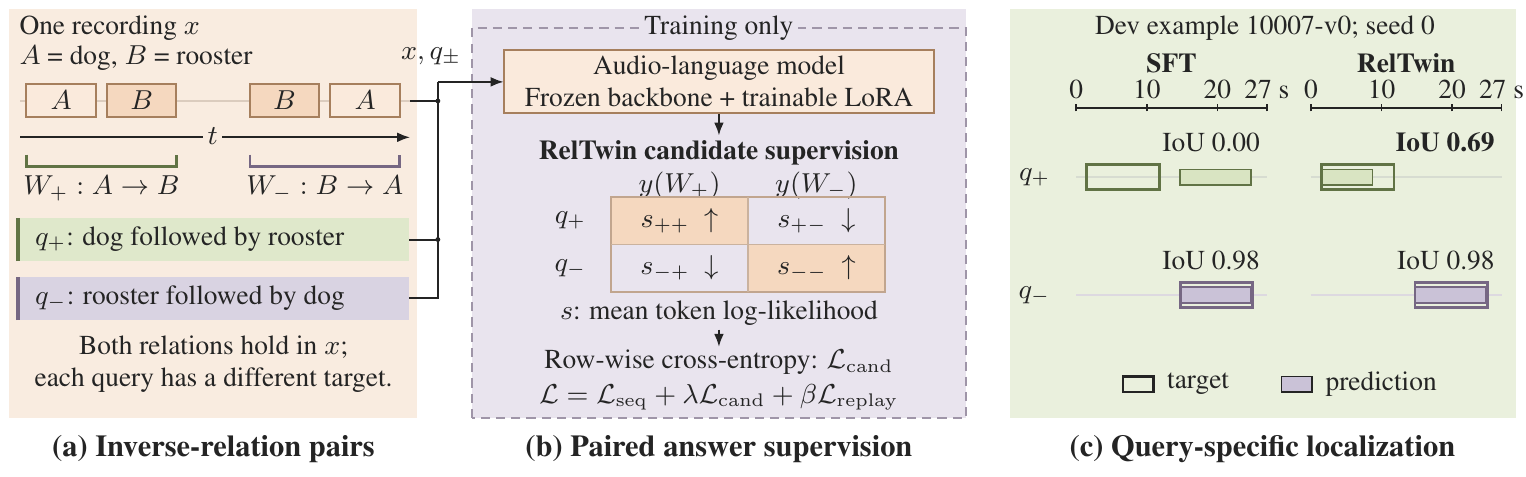
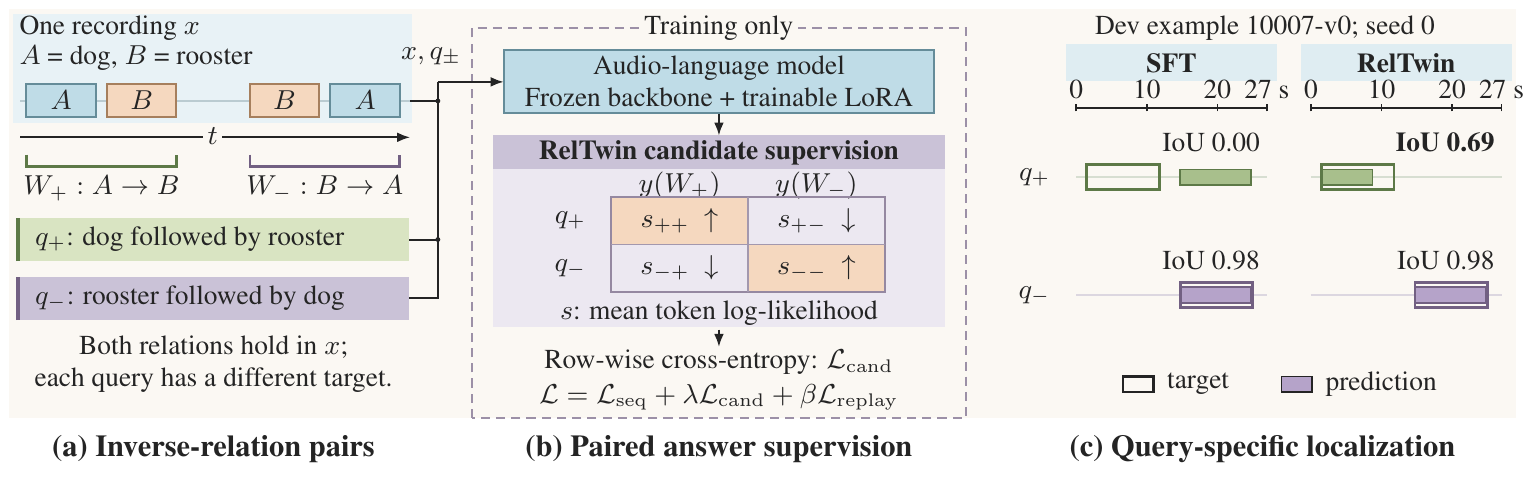
paper: separate figure foreground with functional color regions

diff --git a/figures/overview_art.tex b/figures/overview_art.tex
@@ -9,13 +9,15 @@
 % Synthesized contract: 9 pt Times body, 10 pt panel labels, 0.65 pt lines,
 % sharp rectangles, 0.3--0.5 cm functional gaps, no gradients/shadows/icons.
 % Current palette: annotated swatches in the user-supplied SplineGS reference
-% image (2026-09-14): D9E4C2 sage, CAC2D7 lavender, DDD6E5 pale lavender,
-% F5D8BF apricot, F9ECE0 pale apricot. Style reference only.
-% Sage/lavender identify the two queries and their windows; apricot marks
-% excerpts and model/supervision blocks. All text and math use rtInk.
-% Pale apricot/lavender/sage backgrounds group input/training/comparison.
-% Both models in (c) share one background; outline vs fill encodes target vs
-% prediction independently of color. Deeper companion hues are for strokes.
+% image (2026-09-14): BFDCE7/DFEDF2 cyan, CAC2D7/DDD6E5 lavender,
+% D9E4C2 sage, F5D8BF/F9ECE0 apricot. Style reference only.
+% Warm near-neutral canvas supports local functional regions instead of three
+% full-height color slabs. Cyan identifies audio/model context, lavender groups
+% candidate supervision, and apricot highlights the correct candidate cells.
+% Sage/lavender link query strips to windows; deeper companion window fills
+% remain distinct from the canvas. All text and math use rtInk.
+% Both models in (c) share the same header style and canvas; outline vs fill
+% encodes target vs prediction independently of color.
 % Four excerpt blocks = A,B,B,A; four cells = query/answer likelihoods;
 % solid arrows = data flow; dashed enclosure = training-only computation.
 % Panel (a) is schematic; panel (c) uses unchanged measured interval macros.
@@ -23,47 +25,58 @@
 \definecolor{rtPlusFill}{HTML}{D9E4C2}
 \definecolor{rtMinusFill}{HTML}{CAC2D7}
 \definecolor{rtAccentFill}{HTML}{F5D8BF}
-\definecolor{rtPlus}{HTML}{617345}
-\definecolor{rtMinus}{HTML}{766783}
+\definecolor{rtPlus}{HTML}{5D7947}
+\definecolor{rtMinus}{HTML}{726082}
 \definecolor{rtAccent}{HTML}{A67F5D}
+\definecolor{rtCyanFill}{HTML}{BFDCE7}
+\definecolor{rtCyanBg}{HTML}{DFEDF2}
+\definecolor{rtCyan}{HTML}{658C99}
+\definecolor{rtPlusBar}{HTML}{A8BF8C}
+\definecolor{rtMinusBar}{HTML}{B5A3C9}
 \definecolor{rtInk}{HTML}{242424}
-\definecolor{rtInputBg}{HTML}{F9ECE0}
 \definecolor{rtLavenderBg}{HTML}{DDD6E5}
-\colorlet{rtTrainBg}{rtLavenderBg!65}
-\colorlet{rtCompareBg}{rtPlusFill!55}
+\definecolor{rtCanvasBg}{HTML}{FBF8F3}
+\colorlet{rtSupervisionBg}{rtLavenderBg!55}
 \begin{tikzpicture}[x=1cm,y=1cm,
  every node/.style={font=\fontsize{9}{10.4}\selectfont,text=rtInk,inner sep=1.5pt},
  flow/.style={-{Latex[length=1.5mm]},line width=.65pt,draw=rtInk},
  title/.style={font=\fontsize{10}{11.4}\selectfont\bfseries},
  note/.style={font=\fontsize{9}{10.4}\selectfont,text=rtInk},
- module/.style={draw=rtAccent,fill=rtAccentFill!55,line width=.65pt}]
+ module/.style={draw=rtCyan,fill=rtCyanFill,line width=.65pt}]
 \path[use as bounding box] (0,.93) rectangle (17.4,6.22);
-% Shared-height, borderless stage backgrounds; labels remain below the panels.
-\path[fill=rtInputBg] (0,1.50) rectangle (4.71,6.22);
-\path[fill=rtTrainBg] (5.34,1.50) rectangle (11.05,6.22);
-\path[fill=rtCompareBg] (11.55,1.50) rectangle (17.4,6.22);
+% Color areas follow data/model/competition roles, rather than filling A/B/C.
+\path[fill=rtCanvasBg] (0,1.50) rectangle (17.4,6.22);
+\path[fill=rtCyanBg!72] (.04,4.90) rectangle (4.65,6.16);
+\path[fill=rtSupervisionBg] (5.59,2.55) rectangle (10.80,4.77);
+\path[fill=rtMinusFill] (5.59,4.37) rectangle (10.80,4.77);
+% Matched model headers organize (c) without tinting its entire plotting area.
+\foreach \xlo/\xhi in {12.20/14.64,14.91/17.35}{
+ \path[fill=rtCyanBg] (\xlo,5.39) rectangle (\xhi,5.82);
+}
 
-% (a) One recording contains both local ordered pairs. Apricot tints identify
-% reused excerpts; sage/lavender identifies each query and its answer window.
+% (a) Repeated A/B excerpts use consistent cyan/apricot fills. Sage/lavender
+% identifies each inverse query and its answer window.
 \node[anchor=west] at (.06,6.00) {One recording $x$};
 \node[note,anchor=west] at (.06,5.65) {$A$ = dog, $B$ = rooster};
-\draw[rtAccent!40,line width=.6pt] (.13,5.16)--(4.63,5.16);
-\foreach \xa/\xb/\event/\eventtint in {.2/1.0/A/55,1.13/1.93/B/100,2.78/3.58/B/100,3.71/4.51/A/55}{
- \draw[draw=rtAccent,fill=rtAccentFill!\eventtint,line width=.65pt] (\xa,4.98) rectangle (\xb,5.36);
+\draw[rtCyan!45,line width=.6pt] (.13,5.16)--(4.63,5.16);
+\foreach \xa/\xb/\event/\eventfill/\eventstroke in {
+ .2/1.0/A/rtCyanFill/rtCyan,1.13/1.93/B/rtAccentFill/rtAccent,
+ 2.78/3.58/B/rtAccentFill/rtAccent,3.71/4.51/A/rtCyanFill/rtCyan}{
+ \draw[draw=\eventstroke,fill=\eventfill,line width=.65pt] (\xa,4.98) rectangle (\xb,5.36);
  \node at ({(\xa+\xb)/2},5.17) {$\event$};
 }
 \draw[flow] (.13,4.74)--(4.63,4.74);
-\node[note,fill=rtInputBg] at (2.35,4.75) {$t$};
+\node[note,fill=rtCanvasBg] at (2.35,4.75) {$t$};
 \draw[rtPlus,line width=.9pt] (.2,4.54)--(.2,4.40)--(1.93,4.40)--(1.93,4.54);
 \draw[rtMinus,line width=.9pt] (2.78,4.54)--(2.78,4.40)--(4.51,4.40)--(4.51,4.54);
 \node at (1.065,4.15) {$W_+: A\rightarrow B$};
 \node at (3.645,4.15) {$W_-: B\rightarrow A$};
 
 % Query strips are data, not model blocks. Colored rules identify the pair.
-\path[fill=rtPlusFill!85] (.10,3.31) rectangle (4.62,3.81);
+\path[fill=rtPlusFill] (.10,3.31) rectangle (4.62,3.81);
 \draw[rtPlus,line width=1.3pt] (.10,3.31)--(.10,3.81);
 \node[anchor=west] at (.24,3.56) {$q_+$: dog followed by rooster};
-\path[fill=rtMinusFill!72] (.10,2.63) rectangle (4.62,3.13);
+\path[fill=rtMinusFill] (.10,2.63) rectangle (4.62,3.13);
 \draw[rtMinus,line width=1.3pt] (.10,2.63)--(.10,3.13);
 \node[anchor=west] at (.24,2.88) {$q_-$: rooster followed by dog};
 \node[align=center] at (2.36,2.12) {Both relations hold in $x$;\\each query has a different target.};
@@ -72,7 +85,7 @@
 % Each of the four cells is one timestamp-answer mean log-likelihood.
 \draw[draw=rtMinus!70,dash pattern=on 3pt off 2pt,line width=.75pt]
  (5.34,1.50) rectangle (11.05,6.00);
-\node[fill=rtTrainBg] at (8.195,6.00) {Training only};
+\node[fill=rtCanvasBg] at (8.195,6.00) {Training only};
 \draw[module] (5.71,5.02) rectangle (10.68,5.75);
 \node[align=center] at (8.195,5.385) {Audio-language model\\Frozen backbone + trainable LoRA};
 % Explicit fan-in: recording and both query strips enter the same model.
@@ -91,9 +104,9 @@
 \node at (6.48,3.23) {$q_-$};
 \path[fill=rtAccentFill] (6.95,3.505) rectangle (8.53,4.055);
 \path[fill=rtAccentFill] (8.53,2.955) rectangle (10.11,3.505);
-\draw[rtAccent!70,line width=.65pt] (6.95,2.955) rectangle (10.11,4.055);
-\draw[rtAccent!60,line width=.5pt] (8.53,2.955)--(8.53,4.055);
-\draw[rtAccent!60,line width=.5pt] (6.95,3.505)--(10.11,3.505);
+\draw[rtMinus!75,line width=.65pt] (6.95,2.955) rectangle (10.11,4.055);
+\draw[rtMinus!65,line width=.5pt] (8.53,2.955)--(8.53,4.055);
+\draw[rtMinus!65,line width=.5pt] (6.95,3.505)--(10.11,3.505);
 \node at (7.74,3.78) {$s_{++}\ \uparrow$};
 \node at (9.32,3.78) {$s_{+-}\ \downarrow$};
 \node at (7.74,3.23) {$s_{-+}\ \downarrow$};
@@ -119,12 +132,12 @@
 }
 \node[anchor=east] at (12.08,4.28) {$q_+$};
 \node[anchor=east] at (12.08,2.92) {$q_-$};
-% Column/row alignment carries the comparison on one shared pale-green field.
+% Darker bars separate the predictions from the shared warm canvas.
 \foreach \xbase/\ystart/\ystop/\pstart/\pstop/\yy/\barstroke/\barfill in {
- 12.32/\FigGTPlusStart/\FigGTPlusEnd/\FigSFTPlusStart/\FigSFTPlusEnd/4.28/rtPlus/rtPlusFill,
- 15.03/\FigGTPlusStart/\FigGTPlusEnd/\FigCandPlusStart/\FigCandPlusEnd/4.28/rtPlus/rtPlusFill,
- 12.32/\FigGTMinusStart/\FigGTMinusEnd/\FigSFTMinusStart/\FigSFTMinusEnd/2.92/rtMinus/rtMinusFill,
- 15.03/\FigGTMinusStart/\FigGTMinusEnd/\FigCandMinusStart/\FigCandMinusEnd/2.92/rtMinus/rtMinusFill}{
+ 12.32/\FigGTPlusStart/\FigGTPlusEnd/\FigSFTPlusStart/\FigSFTPlusEnd/4.28/rtPlus/rtPlusBar,
+ 15.03/\FigGTPlusStart/\FigGTPlusEnd/\FigCandPlusStart/\FigCandPlusEnd/4.28/rtPlus/rtPlusBar,
+ 12.32/\FigGTMinusStart/\FigGTMinusEnd/\FigSFTMinusStart/\FigSFTMinusEnd/2.92/rtMinus/rtMinusBar,
+ 15.03/\FigGTMinusStart/\FigGTMinusEnd/\FigCandMinusStart/\FigCandMinusEnd/2.92/rtMinus/rtMinusBar}{
  \draw[\barstroke!25,line width=.45pt] (\xbase,\yy)--({\xbase+2.20},\yy);
  \pgfmathsetmacro{\predstart}{\xbase+2.20*\pstart/27}
  \pgfmathsetmacro{\predstop}{\xbase+2.20*\pstop/27}
@@ -141,7 +154,7 @@
 \node[note,anchor=east] at (17.21,3.32) {IoU \FigCandMinusIoU};
 \draw[draw=rtInk,fill=none,line width=.8pt] (12.86,1.80) rectangle (13.21,1.98);
 \node[note,anchor=west] at (13.31,1.89) {target};
-\draw[draw=rtInk,fill=rtMinusFill,line width=.55pt] (14.69,1.80) rectangle (15.04,1.98);
+\draw[draw=rtInk,fill=rtMinusBar,line width=.55pt] (14.69,1.80) rectangle (15.04,1.98);
 \node[note,anchor=west] at (15.14,1.89) {prediction};
 
 % Labels outside content, following the reference figures.

diff --git a/ISSUES.md b/ISSUES.md
@@ -274,12 +274,13 @@ v11 已完成字体、模板与独立编译核验，交付审计记录 69 项测
 | 2026-09-14 | v12，C01 配置补充 | 核查冻结配置与源码，补齐 LoRA、每步样本/梯度累积和解码设置；C01 关闭，重新编译并检查 PDF。未训练、未重新推理，实验数值未改，其余待办保留。 |
 | 2026-09-14 | v12，Figure 1 合并稿 | 合入主图重绘：撤去结果流向图以及 Figure 1 底部 inference pipeline 和整体统计；(c) 改为 SFT／RelTwin 两列的查询—窗口对照，三幅子图统一以绿／金／紫替代大面积灰底。时间戳、IoU 与实验数值未改。 |
 | 2026-09-14 | v12，浅色分区与深黑文字稿 | 按作者提供的 SplineGS 配色参考，改为浅杏／淡紫／浅绿分区底；浅绿和淡紫对应两类查询及窗口，所有英文、公式、符号和 IoU 统一深黑，重点保留加粗。修正训练框顶部和输入符号的间距。独立图、灰度图、论文尺寸已检查；五页论文逐页词项、数据宏和配置说明均未改变。 |
+| 2026-09-14 | v12，功能配色与前景层次稿 | 根据作者关于背景与模块重复、色彩单一的反馈，撤去三块整栏底色，采用浅暖底与局部功能色区：青色音频／模型、紫色监督区、杏色正确候选，C 图绿／紫窗口加深并使用对称的模型标题条。英文和公式继续统一深黑。独立图、灰度图、论文内尺寸检查通过；五页词项与实验数据未改变。 |
 
 ### 可追溯信息
 
 - v11 源起点：`3841a85d00ed4487be2cca7e1022b2279d079d79`。当前 v12 的 PDF 由本次提交内的 LaTeX 源生成，以包含 v12 版本记录的 Git 提交为准。
 - 原交付审计提交：`a190b11`；原开发分支：`codex/reltwin-core-only-20260913`。
 - 原 LaTeX 路径：`paper/overleaf_icassp2027_reltwin_final_v11`；对应的编译源文件已纳入本分支，入口为 `main.tex`。v12 已补充 `sections/experiments.tex` 并更新 Figure 1 源码及导出文件。
[3 lines of base64/hex data omitted]
 - 官方规则核验日期：2026-09-14。后续若规则更新，重新核查 F01–F06，不能仅凭本清单确认可投稿。

diff --git a/README.md b/README.md
@@ -4,7 +4,7 @@
 
 `paper` 分支同时保存可编辑源码和当前编译稿。当前 v12 审阅稿已补齐已有实验的 LoRA、每步样本/梯度累积及解码设置，并同步更新 Figure 1：删除底部 inference pipeline 与整体统计，右栏改为 SFT／RelTwin 的查询—窗口对照；三幅子图统一减少灰底。没有训练、重新推理或改动实验结果。待处理问题、作者信息占位及提交前检查统一记录在 `ISSUES.md`。
 
-Figure 1 当前配色采用作者提供的 SplineGS 参考图中标注的浅绿 `#D9E4C2`、淡紫 `#CAC2D7`、浅杏 `#F5D8BF`，并用 `#DDD6E5`、`#F9ECE0` 及同色浅调构成三块背景。浅绿／淡紫对应两类查询和窗口，浅杏填充音频片段、模型与正确候选；(a)/(b)/(c) 分别使用浅杏、淡紫、浅绿底，(c) 两个模型共享底色。全部英文、数学符号和数值统一为深黑 `#242424`，重点通过加粗、填充和轮廓表达。按画图 skill 的导出检查方式核对独立图、灰度图和论文内尺寸；原始时间戳与四个 IoU 未改，PDF 中所有主图文字均已核验为同一色值。
+Figure 1 参考作者提供的 SplineGS 配色图，采用青色 `#BFDCE7`／`#DFEDF2`、淡紫 `#CAC2D7`／`#DDD6E5`、浅绿 `#D9E4C2` 和浅杏 `#F5D8BF`。整图使用浅暖底 `#FBF8F3`，颜色集中于功能区域：青色标音频／模型，紫色组织候选监督，杏色强调正确候选。两类查询用浅绿／淡紫，C 图窗口采用加深的同色填充 `#A8BF8C`／`#B5A3C9`，两个模型使用相同的浅青标题条。全部英文、数学符号和数值保持深黑 `#242424`。按画图 skill 的导出检查方式核对独立图、灰度图和论文内尺寸；原始时间戳与四个 IoU 未改，PDF 中所有主图文字均已核验为同一色值。
 
 ## 修改哪里
 
